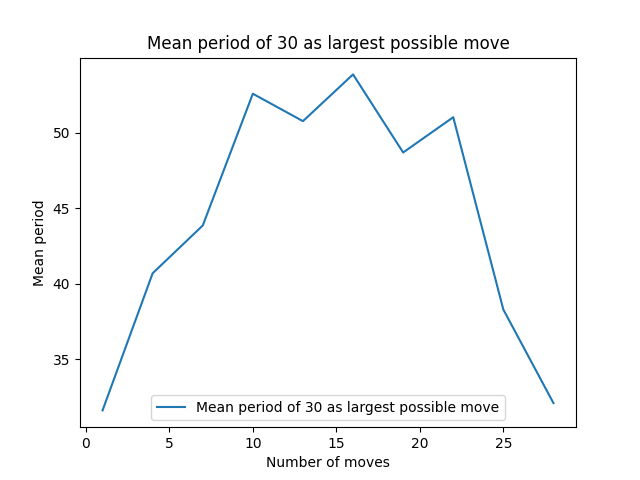
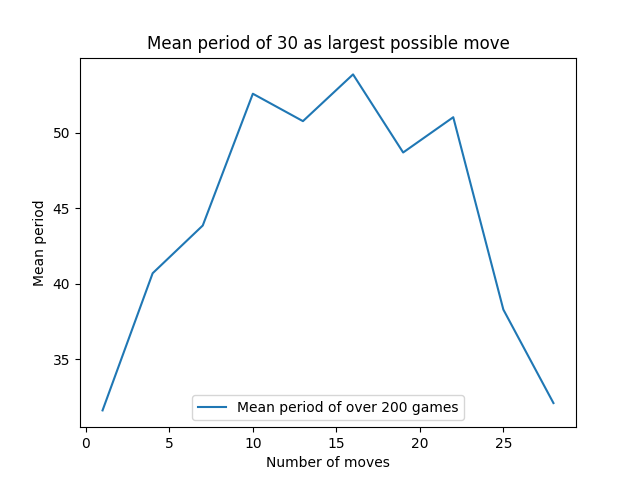
generated graphs

Changed region(s): [[0.25, 0.8125, 0.7812, 0.875]]

diff --git a/test_module.py b/test_module.py
@@ -86,7 +86,8 @@ class TestCollection():
     def plot_move_count(self):
         x = [test.largest_possible_move for test in self.tests]
         y = [test.mean_period for test in self.tests]
-        plt.plot(x, y, label=f"Mean period of {self.move_count} moves")
+        game_count = self.tests[0].game_count
+        plt.plot(x, y, label=f"Mean period over {game_count} games")
         plt.xlabel("Largest possible move")
         plt.ylabel("Mean period")
         plt.title(f"Mean period of {self.move_count} moves")
@@ -97,7 +98,8 @@ class TestCollection():
     def plot_lpm(self):
         x = [test.move_count for test in self.tests]        
         y = [test.mean_period for test in self.tests]
-        plt.plot(x, y, label=f"Mean period of {self.largest_possible_move} as largest possible move")
+        game_count = self.tests[0].game_count
+        plt.plot(x, y, label=f"Mean period of over {game_count} games")
         plt.xlabel("Number of moves")
         plt.ylabel("Mean period")
         plt.title(f"Mean period of {self.largest_possible_move} as largest possible move")
@@ -154,6 +156,7 @@ if __name__ == "__main__":
     # tester.test_periodicity_of_subtraction_game_by_move_count(move_count=5)
     # tester.test_periodicity_of_subtraction_game_by_largest_possible_move(largest_possible_move=40)
     # tester.test_periodicity_of_subtraction_game_by_largest_possible_move(largest_possible_move=30)
+    # tester.test_periodicity_of_subtraction_game_by_largest_possible_move(largest_possible_move=10)
     # tester.save("tester.pkl")
     # tester.display_library("subtraction", "move_count")
     # tester.display_library("subtraction", "lpm")

diff --git a/solver.py b/solver.py
@@ -210,6 +210,7 @@ class SubtractionGame(Game):
         return f"Subtraction game with valid moves {sorted(self.valid_moves)}\n" + super().__str__()
 
 if __name__ == '__main__':
+    pass
     # game = SubtractionGame()
     # game.add_moves([1,4,10])
     # game.add_moves([1,2,6,11])
